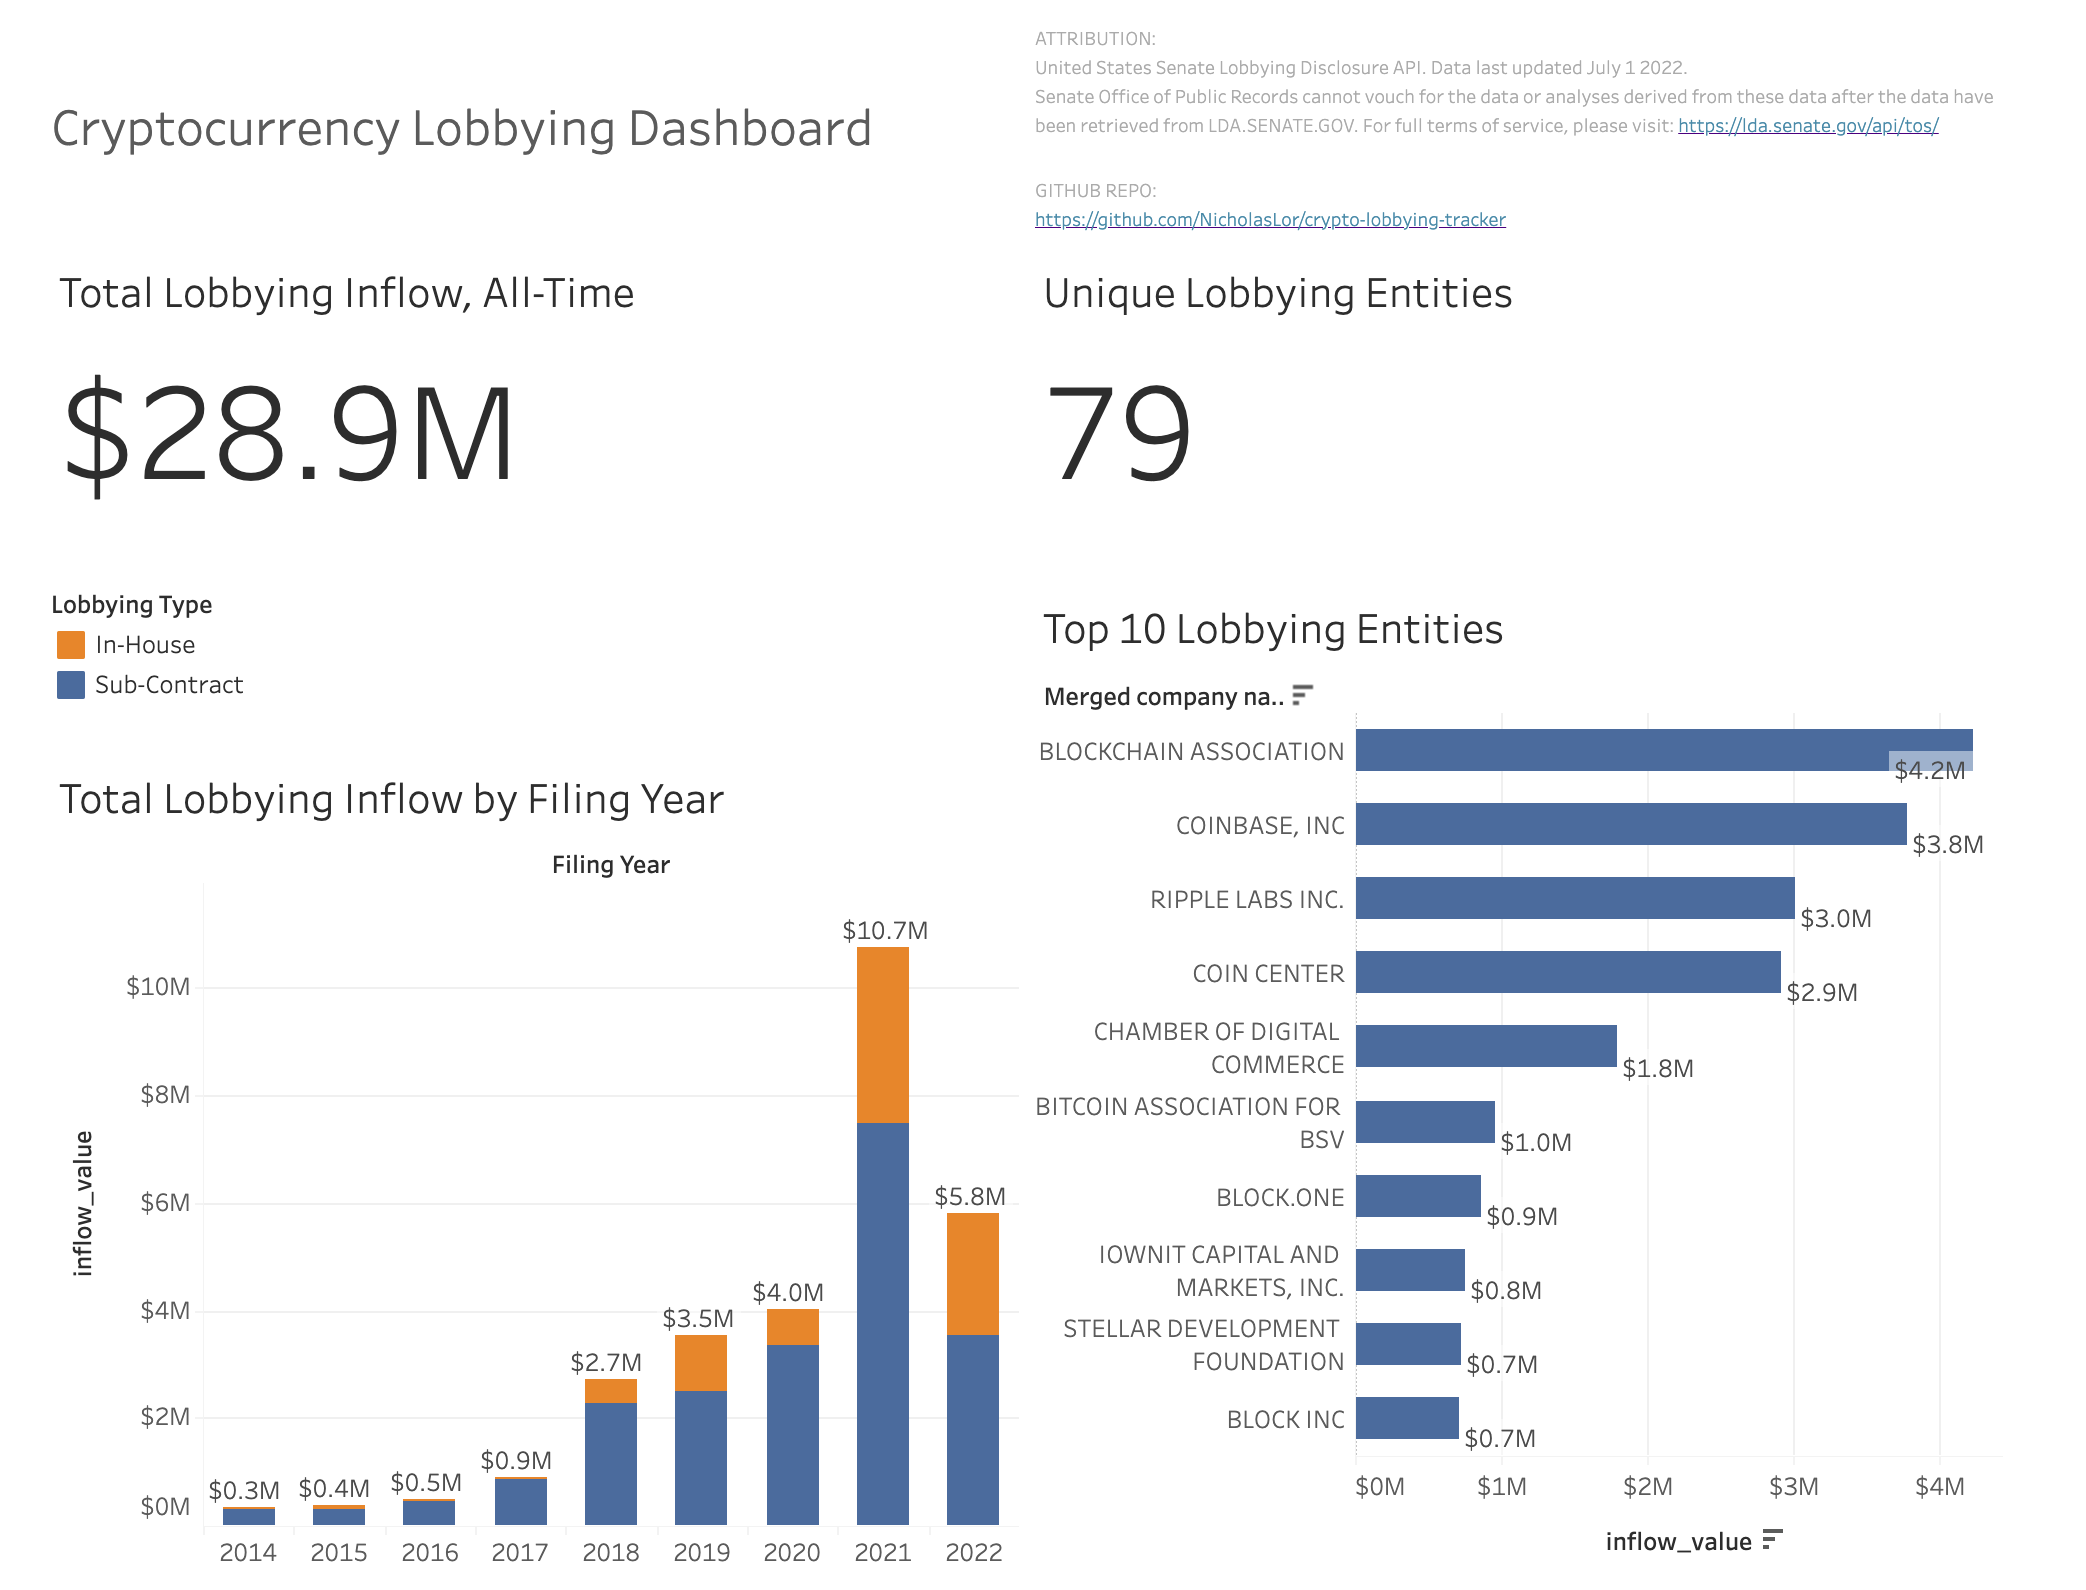
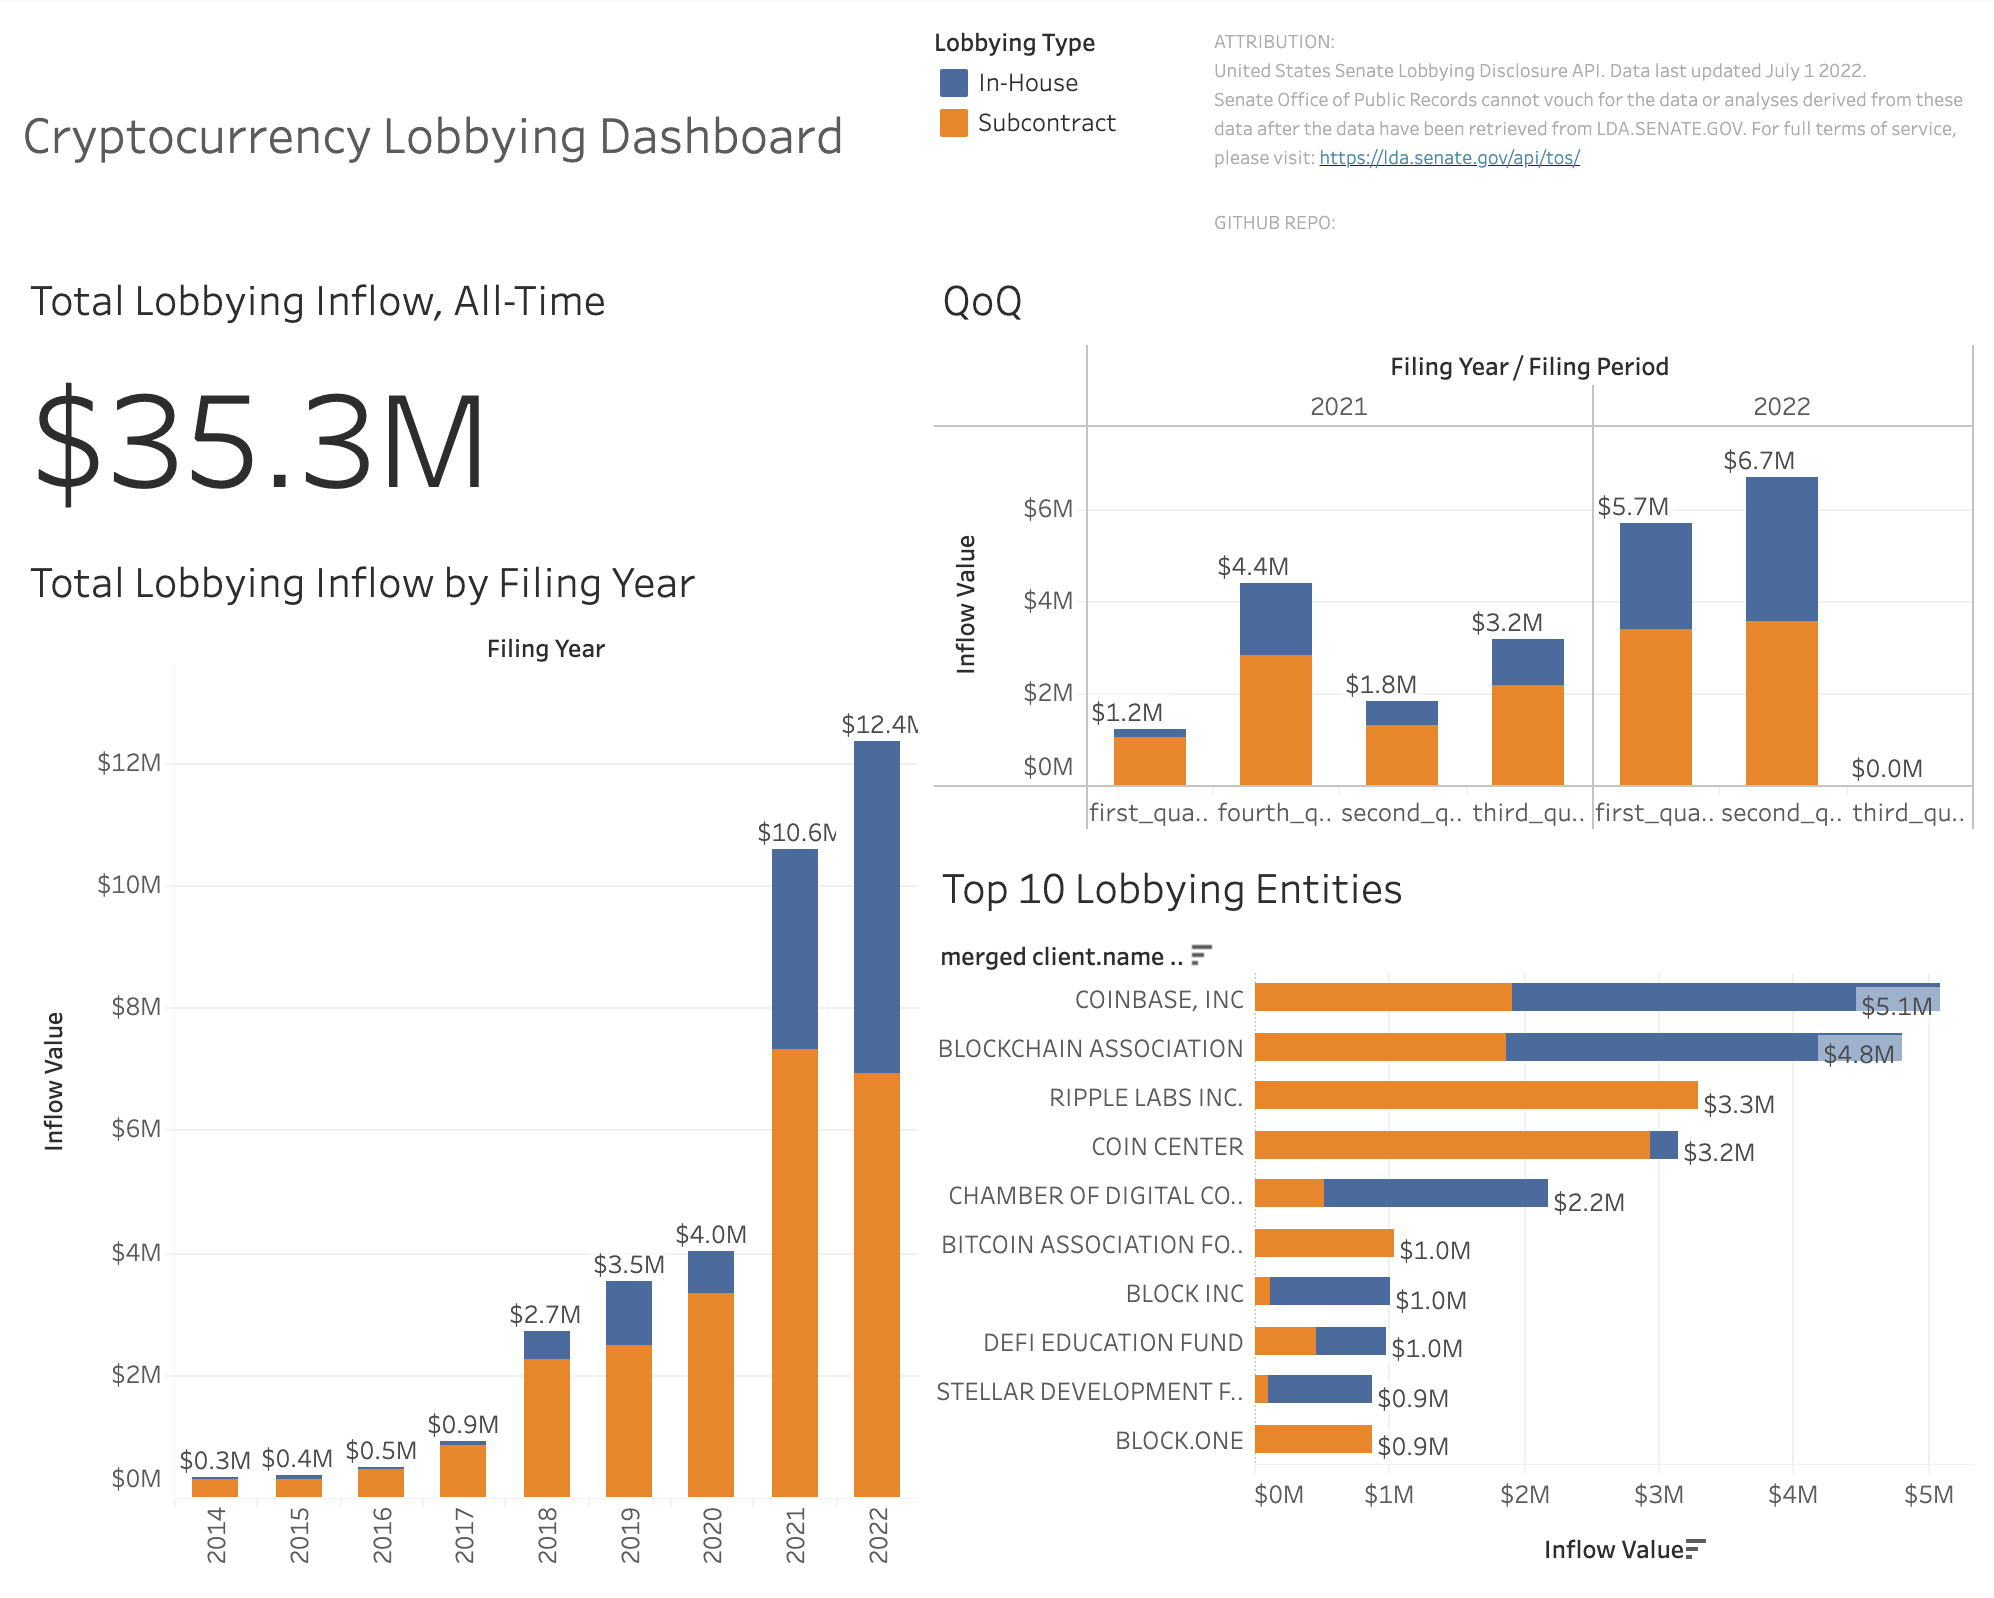
v0.2 release: readme updates

diff --git a/README.md b/README.md
@@ -1,4 +1,4 @@
-# :us: Crypto Lobbying Tracker :us:
+# :zap: US Cryptocurrency Lobbying Tracker :zap:
 
 Click [here](https://public.tableau.com/views/CryptoLobbyingDashboard/SummaryDashboard?:language=en-US&:display_count=n&:origin=viz_share_link) to view the Public Tableau Dashboard
 
@@ -17,15 +17,25 @@ This is a continuation of my final project from the UofC Software Engineering Co
 
 ### **Release Summary** ###
 :white_check_mark: - v0.1 - 7/22/2022 - Initial Release on Tableau Public  
-:soon: - v0.2 - planned - Integration of Legislative Data using Legiscan API <br />
-:soon: - v0.3 - planned - Fully Automate and warehouse data with PostgresSQL <br />
+:white_check_mark: - v0.2 - 8/30/2022 - Fully Automate and warehouse data with PostgresSQL <br />
+:soon: - v0.3 - planned - Integration of Legislative Data using Legiscan API <br />
 :soon: - v0.4 - planned - Self-host using an open source dashboarding software such as Metabase  
 <br />  
 
 ### **Release Details** ###
 v0.1: Initial Release on Tableau Public
 
-For this first release, I wanted to make a proof-of-concept to build and further iterate on. I wrote a python script to extract data from the Senate Lobbying API, and completed basic data cleansing and validation tasks using excel. Then I published the dashboard to Tableau as an extract.
+- For this first release, I wanted to make a proof-of-concept to build and further iterate on. I wrote a python script to extract data from the Senate Lobbying API, and completed basic data cleansing and validation tasks using excel. Then I published the dashboard to Tableau as an extract.
+<br />  
+
+v0.2: Fully Automate and warehouse data with PostgresSQL
+
+- For this second release, I automated all of the data cleansing I previously had to do manually excel by utilizing the pandas libray in python to create the additional columns. Then I spun up a local postgres database and configured my python script to import into it.
+
+<br />
+
+### **Caveats and Notes** ###
+- This dashboard tracks "pure" cryptocurrency companies only. Companies like Meta lobby the US government on a wide variety of issues, including cryptocurrency/metaverse legislation, but do not specify how much spend is allocated to specific issues. Therefore, I am filtering out companies like Meta and only including those who purely operate in the crypto/web3 space (think Coinbase, Block, etc).
 
 <br />
 
